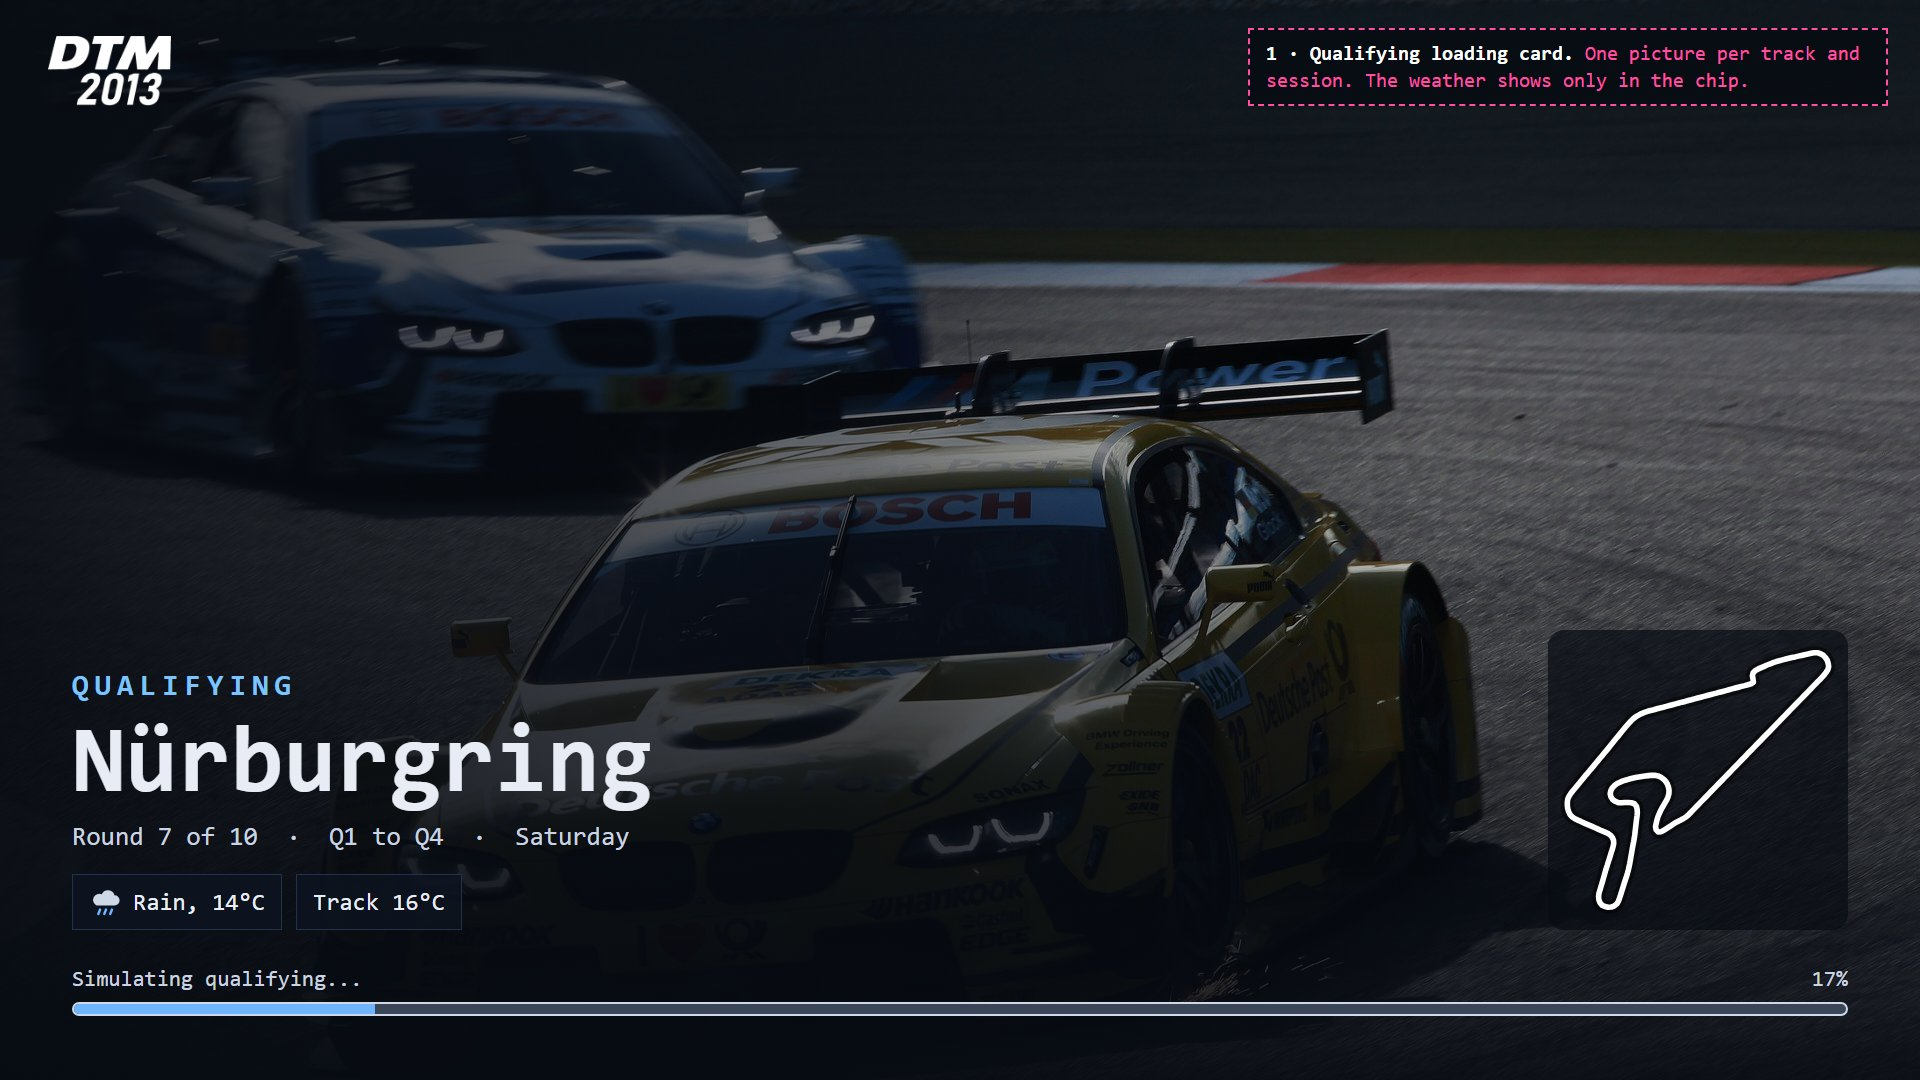
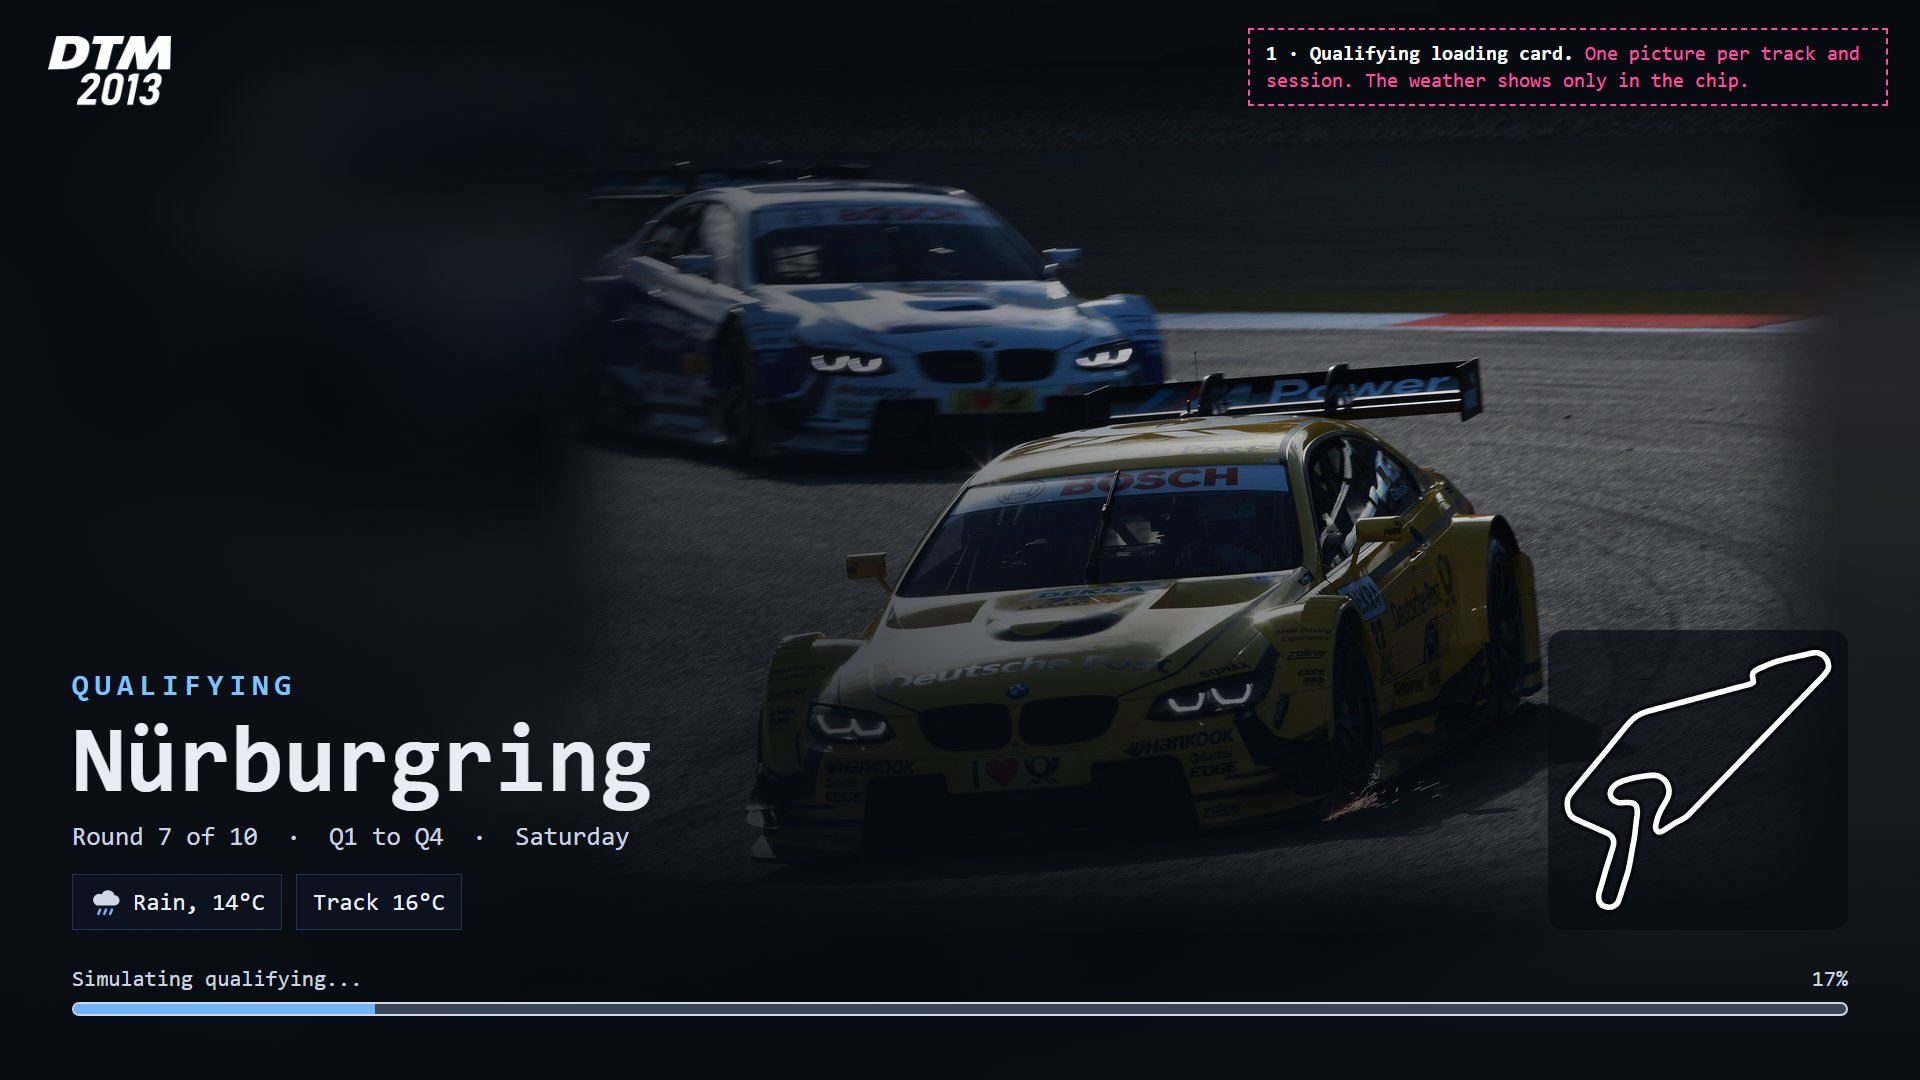
Weekend images: full race weekend journey, new starting grid, fallback rule
- img/weekend-journey: 17 screens from the dashboard through every
  simulated session and back, plus the two fallback cases
- New starting grid: facts on top, the grid on the track, table below
- Fallback: track picture for the session, then one pack picture per
  session, then today's screen
- Hockenheim card is now the race card; close-up photos zoomed out

diff --git a/docs/requests/weekend-images.md b/docs/requests/weekend-images.md
@@ -20,10 +20,13 @@ So my idea: **a pack can add images to the weekend, and the game picks the one t
 - **Results for your team:** the picture follows how your team did: win, podium, points, no points or retired.
 - **Optional archive:** an older picture of the track with the year and a caption.
 
-Each image falls back to a more general one: track and session, then track, then the whole pack, then today's screen. Packs without images look exactly as today.
+Each picture falls back: the track's picture for that session, then one pack picture for that session, then today's screen without a picture. Packs without images look exactly as today.
 
 ```json
 "weekend_images": {
+  "practice": ["practice.jpg"],
+  "qualifying": ["qualifying.jpg"],
+  "race": ["race.jpg"],
   "nuerburgring13": {
     "practice": ["nbr_practice.jpg"],
     "qualifying": ["nbr_quali.jpg"],
@@ -57,10 +60,24 @@ explain each screen and are not part of the design.
 | `09-results-retired.jpg` | 2 Weekend in three acts | Played as Phoenix: "retired" picture, from the pack-wide set |
 | `10-archive-loading.jpg` | 3 Track archive | Race loading with a 1987 picture, year and caption |
 | `11-archive-story.jpg` | 3 Track archive | Winner card with a 2006 photo of Spengler at the same track |
-| `12` to `19-loading-<track>.jpg` | 1 Loading cards | The same card at the other eight 2013 tracks, practice or qualifying |
+| `12` to `19-loading-<track>.jpg` | 1 Loading cards | The same card at the other eight 2013 tracks (Hockenheim as the race card) |
 
 The source page is in the session scratchpad and not kept; the screens are
 simple HTML over the photos and can be rebuilt.
+
+## The full weekend
+
+`img/weekend-journey/` walks through one race weekend as BMW Team MTEK at the
+Nürburgring, every session simulated: dashboard in the off week, next week,
+dashboard in race week, practice, simulating practice, practice results,
+qualifying, simulating qualifying, qualifying results, the card between
+sessions, the starting grid, race, simulating race, race results and the
+dashboard after the race. Two more screens show the fallback: the pack's
+one picture for the session, and no picture at all (today's screen).
+
+The starting grid (`11-starting-grid.jpg`) has the facts on top, the grid
+as it stands on the track in the middle (cars face left, so the start line
+is on the left and pole is in the lower lane), and the full table below.
 
 ## More screens: grid and pre-race
 
